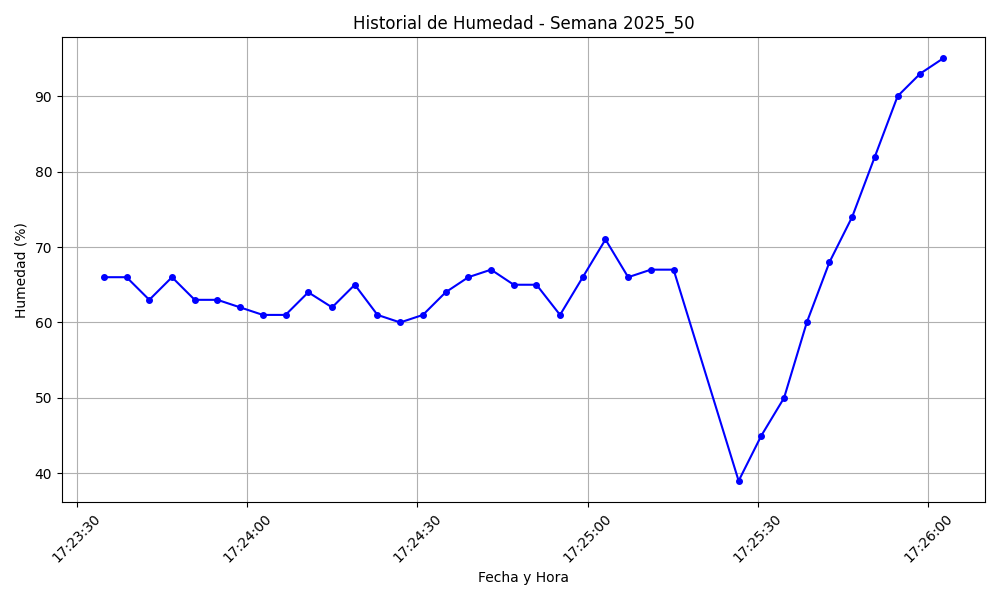
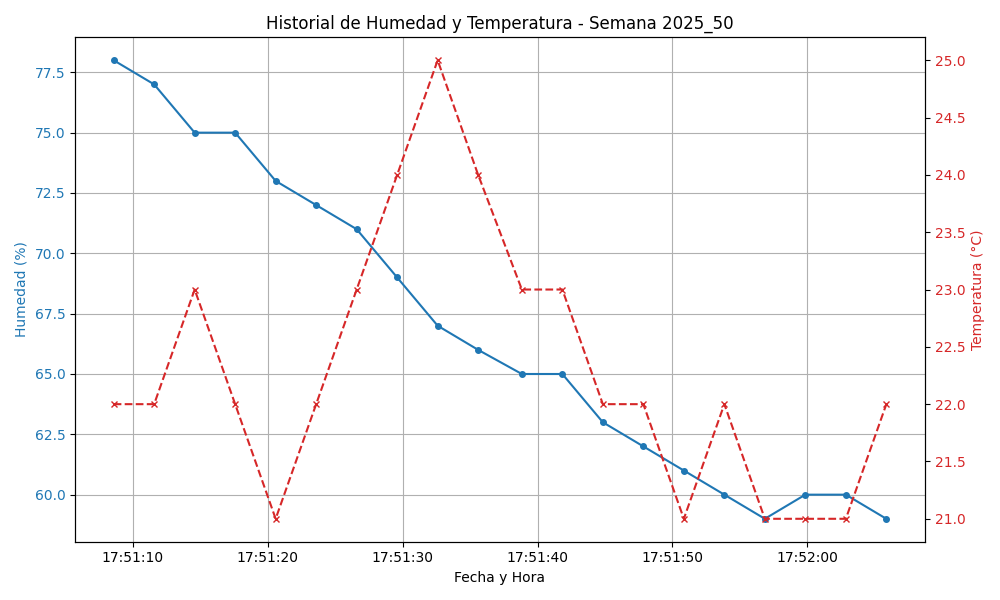
feat: Add humidity and ambient temperature sensors, relay actuator, and implement temperature-aware irrigation control with enhanced data visualization.

diff --git a/visualizacion.py b/visualizacion.py
@@ -4,7 +4,7 @@ import re
 import os
 
 def generar_grafico():
-    datos_por_semana = {} # Key: "YYYY-WW", Value: {'fechas': [], 'humedades': []}
+    datos_por_semana = {} # Key: "YYYY-WW", Value: {'fechas': [], 'humedades': [], 'temperaturas': []}
     
     archivo_log = 'registro_bodega.txt'
     carpeta_salida = 'imagenes_analisis'
@@ -15,49 +15,78 @@ def generar_grafico():
     try:
         with open(archivo_log, 'r') as f:
             for linea in f:
-                # Formato esperado: [2025-12-14 15:44:37.136833] Evento: Riego ENCENDIDO (Humedad = 32%)
-                match = re.search(r'\[(.*?)\].*Humedad = (\d+)%', linea)
-                if match:
-                    fecha_str = match.group(1)
-                    humedad_str = match.group(2)
-                    
+                # Intenta coincidir con el nuevo formato: Humedad=XX%, Temp=XX°C
+                # [2025-12-14 17:45:50.287496] Evento: Riego ENCENDIDO (MEDIA POTENCIA) (Humedad=58%, Temp=30°C)
+                match_nuevo = re.search(r'\[(.*?)\].*Humedad=(\d+)%, Temp=(\d+)°C', linea)
+                
+                # Intenta coincidir con el formato antiguo (si es necesario para compatibilidad, aunque el usuario reinició)
+                # [2025-12-14 15:44:37.136833] Evento: Riego ENCENDIDO (Humedad = 32%)
+                match_antiguo = re.search(r'\[(.*?)\].*Humedad = (\d+)%', linea)
+                
+                fecha = None
+                humedad = None
+                temp = None
+
+                if match_nuevo:
+                    fecha_str = match_nuevo.group(1)
+                    humedad = int(match_nuevo.group(2))
+                    temp = int(match_nuevo.group(3))
+                elif match_antiguo:
+                    # Si es formato antiguo, no tenemos temperatura. Podemos ignorarlo o poner None.
+                    # Para este caso, ignoraremos datos antiguos para no mezclar gráficos con/sin temperatura.
+                    continue 
+
+                if fecha and humedad is not None:
+                    pass # Ya tenemos los datos
+                elif match_nuevo:
+                     # Parsear fecha
                     try:
                         fecha = dt.datetime.strptime(fecha_str, '%Y-%m-%d %H:%M:%S.%f')
-                        humedad = int(humedad_str)
-                        
-                        # Get ISO year and week
-                        year, week, _ = fecha.isocalendar()
-                        clave_semana = f"{year}_{week}"
-                        
-                        if clave_semana not in datos_por_semana:
-                            datos_por_semana[clave_semana] = {'fechas': [], 'humedades': []}
-                        
-                        datos_por_semana[clave_semana]['fechas'].append(fecha)
-                        datos_por_semana[clave_semana]['humedades'].append(humedad)
-                        
                     except ValueError:
-                        print(f"Error al parsear fecha: {fecha_str}")
                         continue
+                else:
+                    continue
+
+                # Agrupar por semana
+                year, week, _ = fecha.isocalendar()
+                clave_semana = f"{year}_{week}"
+                
+                if clave_semana not in datos_por_semana:
+                    datos_por_semana[clave_semana] = {'fechas': [], 'humedades': [], 'temperaturas': []}
+                
+                datos_por_semana[clave_semana]['fechas'].append(fecha)
+                datos_por_semana[clave_semana]['humedades'].append(humedad)
+                datos_por_semana[clave_semana]['temperaturas'].append(temp)
 
         if not datos_por_semana:
             print("No se encontraron datos válidos para graficar.")
             return
 
         for semana, datos in datos_por_semana.items():
-            plt.figure(figsize=(10, 6))
-            plt.plot(datos['fechas'], datos['humedades'], marker='o', linestyle='-', color='b', markersize=4)
-            
-            plt.title(f'Historial de Humedad - Semana {semana}')
-            plt.xlabel('Fecha y Hora')
-            plt.ylabel('Humedad (%)')
-            plt.grid(True)
-            plt.xticks(rotation=45)
-            plt.tight_layout()
+            fig, ax1 = plt.subplots(figsize=(10, 6))
+
+            # Eje 1: Humedad (Azul)
+            color = 'tab:blue'
+            ax1.set_xlabel('Fecha y Hora')
+            ax1.set_ylabel('Humedad (%)', color=color)
+            ax1.plot(datos['fechas'], datos['humedades'], color=color, marker='o', markersize=4, label='Humedad')
+            ax1.tick_params(axis='y', labelcolor=color)
+            ax1.grid(True)
+
+            # Eje 2: Temperatura (Rojo)
+            ax2 = ax1.twinx()  
+            color = 'tab:red'
+            ax2.set_ylabel('Temperatura (°C)', color=color)  
+            ax2.plot(datos['fechas'], datos['temperaturas'], color=color, marker='x', linestyle='--', markersize=4, label='Temperatura')
+            ax2.tick_params(axis='y', labelcolor=color)
+
+            plt.title(f'Historial de Humedad y Temperatura - Semana {semana}')
+            fig.tight_layout()  
             
             nombre_archivo = f"reporte_semana_{semana}.png"
             ruta_completa = os.path.join(carpeta_salida, nombre_archivo)
             plt.savefig(ruta_completa)
-            plt.close() # Close to free memory
+            plt.close() 
             print(f"Gráfico guardado: {ruta_completa}")
 
     except FileNotFoundError:

diff --git a/main.py b/main.py
@@ -4,6 +4,8 @@ import time as tm
 
 # 1.1 Importamos el package del sensor de humedad (antes temperatura)
 from sensores import sensor_humedad # De sensor_temperatura a sensor_humedad
+# 1.1.2 Importamos sensor de temperatura ambiente
+from sensores import sensor_temperatura_ambiente
 
 # 1.2 Importamos el package del actuador
 from actuadores import rele
@@ -20,33 +22,49 @@ UMBRAL_HUMEDAD = 60
 fecha_hora_actual = dt.datetime.now() # Obtenemos hora y fecha del sistema
 
 contador_ciclos = 0
+potencia_riego = 0 # 0 = Apagado, 0-100 = Potencia
 
 while True:
 
-    tm.sleep(2) # Ejecución cada 2 segundos
+    tm.sleep(1) # Ejecución cada 1 segundo
     contador_ciclos += 1
     fecha_hora_actual = dt.datetime.now() # Obtenemos hora y fecha del sistema
-    # CAMBIO: Llamamos a la nueva función del sensor de humedad
-    estado_humedad = sensor_humedad.sensor_humedad() 
     
-    # CAMBIO: La condición es ahora si la humedad es MENOR al umbral
-    if estado_humedad < UMBRAL_HUMEDAD: 
-        # Activamos el interruptor para el riego (True = ENCENDIDO)
-        rele.manipular_actuador_interruptor(True)
+    # 1. Leemos temperatura ambiente
+    temp_ambiente = sensor_temperatura_ambiente.sensor_temperatura()
+    
+    # 2. Leemos humedad (pasando temp y potencia actual)
+    estado_humedad = sensor_humedad.sensor_humedad(temp_ambiente, potencia_riego)
+    
+    # 3. Lógica de control
+    if estado_humedad < UMBRAL_HUMEDAD:
+        # Necesitamos regar. Decidimos la potencia.
+        # Si hace mucho calor (> 30) o está muy seco (< 40), potencia máxima.
+        if temp_ambiente > 30 or estado_humedad < 40:
+            nueva_potencia = 100
+            tipo_riego = "ALTA POTENCIA"
+        else:
+            nueva_potencia = 50
+            tipo_riego = "MEDIA POTENCIA"
+            
+        # Activamos actuador
+        rele.manipular_actuador_interruptor(nueva_potencia)
+        potencia_riego = nueva_potencia
 
-        # CAMBIO: Mensaje para Riego ENCENDIDO con Humedad
-        salida_info = f"[{fecha_hora_actual}] Evento: Riego ENCENDIDO (Humedad = {estado_humedad}%)"
+        # Mensaje
+        salida_info = f"[{fecha_hora_actual}] Evento: Riego ENCENDIDO ({tipo_riego}) (Humedad={estado_humedad}%, Temp={temp_ambiente}°C)"
         registro_log.crear_registro(str(salida_info))
-        print(f"Evento: Riego ENCENDIDO (Humedad = {estado_humedad}%) con fecha y hora actual: {fecha_hora_actual}")
+        print(f"Evento: Riego ENCENDIDO ({tipo_riego}) (Humedad={estado_humedad}%, Temp={temp_ambiente}°C) con fecha y hora actual: {fecha_hora_actual}")
 
     else:
-        # Apagamos el interruptor para el riego (False = APAGADO)
-        rele.manipular_actuador_interruptor(False)
+        # Apagamos
+        rele.manipular_actuador_interruptor(0)
+        potencia_riego = 0
 
-        # CAMBIO: Mensaje para Riego APAGADO con Humedad
-        salida_info = f"[{fecha_hora_actual}] Evento: Riego APAGADO (Humedad = {estado_humedad}%)"
+        # Mensaje
+        salida_info = f"[{fecha_hora_actual}] Evento: Riego APAGADO (Humedad={estado_humedad}%, Temp={temp_ambiente}°C)"
         registro_log.crear_registro(str(salida_info))
-        print(f"Evento: Riego APAGADO (Humedad = {estado_humedad}%) con fecha y hora actual: {fecha_hora_actual}")
+        print(f"Evento: Riego APAGADO (Humedad={estado_humedad}%, Temp={temp_ambiente}°C) con fecha y hora actual: {fecha_hora_actual}")
 
     # Generar grafico cada 10 ciclos (aprox 20 segundos)
     if contador_ciclos % 10 == 0:

diff --git a/sensores/sensor_humedad.py b/sensores/sensor_humedad.py
@@ -3,17 +3,34 @@ import random
 import time
 
 # Se crea una función para leer la humedad (antes temperatura)
-def sensor_humedad():
+def sensor_humedad(temperatura_ambiente, potencia_riego):
     # Inicializamos la última lectura si no existe (simulando variable estática)
     if not hasattr(sensor_humedad, "ultima_lectura"):
         sensor_humedad.ultima_lectura = random.randint(40, 80)
 
-    # Variación aleatoria pequeña (Random Walk) entre -5 y +5
-    variacion = random.randint(-10, 10)
+    # 1. Factor de secado (Drying)
+    # A mayor temperatura, mayor secado.
+    # Base de secado: 1%
+    # Si temp > 25, aumenta el secado.
+    factor_secado = 1 + max(0, (temperatura_ambiente - 25) * 0.2)
+    
+    # 2. Factor de riego (Wetting)
+    # Depende de la potencia del riego (0-100)
+    # Si potencia es 100, sube aprox 5-8%. Si es 50, sube 2-4%.
+    factor_riego = 0
+    if potencia_riego > 0:
+        factor_riego = (potencia_riego / 100) * random.uniform(4, 8)
+
+    # Variación neta
+    variacion = factor_riego - factor_secado
+    
+    # Añadimos un poco de ruido aleatorio (-1 a +1)
+    variacion += random.uniform(-1, 1)
+
     nueva_lectura = sensor_humedad.ultima_lectura + variacion
 
-    # Mantenemos los valores dentro de un rango realista (20% - 95%)
-    nueva_lectura = max(20, min(95, nueva_lectura))
+    # Mantenemos los valores dentro de un rango realista (10% - 100%)
+    nueva_lectura = max(10, min(100, nueva_lectura))
     
     # Actualizamos el estado
     sensor_humedad.ultima_lectura = nueva_lectura
@@ -21,4 +38,4 @@ def sensor_humedad():
     # Lectura de 2 segundos según el requerimiento
     time.sleep(2)
 
-    return nueva_lectura
+    return int(nueva_lectura)

diff --git a/sensores/sensor_temperatura_ambiente.py b/sensores/sensor_temperatura_ambiente.py
@@ -1,0 +1,23 @@
+import random
+
+def sensor_temperatura():
+    # Inicializamos la temperatura si no existe (simulando variable estática)
+    if not hasattr(sensor_temperatura, "ultima_lectura"):
+        sensor_temperatura.ultima_lectura = random.randint(20, 30)
+
+    # Random Walk: Variación pequeña entre -1 y +1 grados
+    variacion = random.choice([-1, 0, 1])
+    
+    # A veces hay cambios más bruscos (simulando nubes o sol directo)
+    if random.random() < 0.1:
+        variacion += random.choice([-2, 2])
+
+    nueva_lectura = sensor_temperatura.ultima_lectura + variacion
+
+    # Mantenemos los valores dentro de un rango realista (15°C - 40°C)
+    nueva_lectura = max(15, min(40, nueva_lectura))
+    
+    # Actualizamos el estado
+    sensor_temperatura.ultima_lectura = nueva_lectura
+
+    return nueva_lectura

diff --git a/actuadores/rele.py b/actuadores/rele.py
@@ -1,15 +1,24 @@
 # Variable estado actuador rele o interruptor apagado
 
 estado_rele = False
+potencia_actual = 0
 
 # Función que enciende y apaga el actuador (Riego).
-def manipular_actuador_interruptor(accion_en_actuador):
-    if accion_en_actuador == True:
+# Ahora acepta un nivel de potencia (0-100)
+def manipular_actuador_interruptor(potencia):
+    global estado_rele, potencia_actual
+    
+    # Si se pasa un booleano por compatibilidad
+    if isinstance(potencia, bool):
+        potencia = 100 if potencia else 0
+
+    if potencia > 0:
         # ENCENDIDO
         estado_rele = True
-
-    elif accion_en_actuador == False:
+        potencia_actual = potencia
+    else:
         # APAGADO
         estado_rele = False
+        potencia_actual = 0
 
-    return estado_rele
+    return estado_rele, potencia_actual
